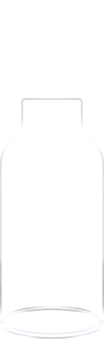
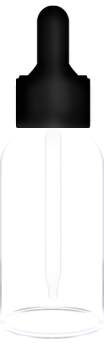
FEAT: teach 2

Changed region(s): [[0.1442, 0.0, 0.8942, 0.379]]

diff --git a/web/src/components/CreateLabs.tsx b/web/src/components/CreateLabs.tsx
@@ -1,27 +1,82 @@
 import React, { useState, useEffect } from 'react';
-import { createLab, getSubstances } from '../axios'; // Import the necessary functions
+import { createLab, getSubstances } from '../axios'; // Import necessary functions
 import { LabWithSubs } from '../types';
-import './CreateLabs.css'; // Import the CSS for styling
+import flaskImg from '../assets/flask.png';
+import bottleImg from '../assets/bottle.png';
+import './CreateLabs.css'; // Import CSS for styling
+import flaskBTBImg from '../assets/Flask-BTB.png';
+import flaskBTBH2OImg from '../assets/Flask-BTB+H2O.png';
+import flaskBTBHCLImg from '../assets/Flask-BTB+HCL.png';
+import flaskBTBNH3Img from '../assets/Flask-BTB+NH3.png';
+import flaskMethylOrangeImg from '../assets/Flask-Methyl_orange.png';
+import flaskMethylOrangeH2OImg from '../assets/Flask-Methyl_orange+H2O.png';
+import flaskMethylOrangeHCLImg from '../assets/Flask-Methyl_orange+HCL.png';
+import flaskMethylOrangeNH3Img from '../assets/Flask-Methyl_orange+NH3.png';
+import flaskPhenolphthaleinImg from '../assets/Flask-Phenolphthalein.png';
+import flaskPhenolphthaleinH2OImg from '../assets/Flask-Phenolphthalein+H2O.png';
+import flaskPhenolphthaleinHCLImg from '../assets/Flask-Phenolphthalein+HCL.png';
+import flaskPhenolphthaleinNH3Img from '../assets/Flask-Phenolphthalein+NH3.png';
+import h2oImg from '../assets/H2O.png';
+import hclImg from '../assets/HCL.png';
+import nh3Img from '../assets/NH3.png';
+
+// Hardcoded dictionary mapping substances to images
+const substanceImages: { [key: string]: string } = {
+  'BTB': flaskBTBImg,
+  'BTB+물': flaskBTBH2OImg,
+  'BTB+염산': flaskBTBHCLImg,
+  'BTB+암모니아': flaskBTBNH3Img,
+  '메틸 오렌지': flaskMethylOrangeImg,
+  '메틸 오렌지+물': flaskMethylOrangeH2OImg,
+  '메틸 오렌지+염산': flaskMethylOrangeHCLImg,
+  '메틸 오렌지+암모니아': flaskMethylOrangeNH3Img,
+  '페놀프탈레인': flaskPhenolphthaleinImg,
+  '페놀프탈레인+물': flaskPhenolphthaleinH2OImg,
+  '페놀프탈레인+염산': flaskPhenolphthaleinHCLImg,
+  '페놀프탈레인+암모니아': flaskPhenolphthaleinNH3Img,
+  '물': h2oImg,
+  '염산': hclImg,
+  '암모니아': nh3Img,
+  // 추가 용액들 필요시 추가
+};
 
 interface Substance {
   substance_id: number;
   substance_name: string;
+  x: number;
+  y: number;
+  case_type: string;
+  image: string; // To track which image is currently being displayed
 }
 
 const CreateLab = () => {
   const [labName, setLabName] = useState(''); // Lab name
   const [goal, setGoal] = useState('');       // Lab goal
-  const [substances, setSubstances] = useState<Substance[]>([]); // Substances (for selected items)
-  const [materials, setMaterials] = useState<Substance[]>([]); // Materials fetched from backend
+  const [substances, setSubstances] = useState<Substance[]>([]); // Substances
+  const [materials, setMaterials] = useState<string[]>([]); // Materials fetched from backend
   const [showModal, setShowModal] = useState(true); // Modal state
   const [sidebarOpen, setSidebarOpen] = useState(false); // Sidebar state
   const [activeTab, setActiveTab] = useState('Tools'); // Active tab in sidebar
+  const [selectedToolId, setSelectedToolId] = useState<number | null>(null); // Track selected tool
 
   const availableTools = ['플라스크', '시약병']; // Fixed tools
 
   // Function to drop tools or materials
-  const handleDrop = (item: string) => {
-    setSubstances([...substances, { substance_id: substances.length + 1, substance_name: item }]);
+  const handleDrop = (item: string, itemType: string) => {
+    const imageWidth = 150;  // Fixed image width
+    const imageHeight = 150; // Fixed image height
+
+    const newX = (window.innerWidth / 2) - (imageWidth / 2) - 0.9 * (window.innerWidth / 2) ; // Center the image horizontally
+    const newY = (window.innerHeight / 2) - (imageHeight / 2); // Center the image vertically
+
+    setSubstances([...substances, {
+      substance_id: substances.length + 1,
+      substance_name: item,
+      x: newX,
+      y: newY,
+      case_type: itemType,
+      image: itemType === 'flask' ? flaskImg : bottleImg, // Initial image for tool
+    }]);
   };
 
   const handleCreateLab = () => {
@@ -44,9 +99,9 @@ const CreateLab = () => {
   // Fetch materials from backend
   useEffect(() => {
     if (activeTab === 'Materials') {
-      getSubstances() // Use the imported getSubstances function
+      getSubstances()
         .then(response => {
-          setMaterials(response.data); // Assume response.data contains an array of substances
+          setMaterials(response.data.map((material: { substance_name: string }) => material.substance_name)); // Just get names
         })
         .catch(error => {
           console.error('Error fetching materials:', error);
@@ -54,15 +109,39 @@ const CreateLab = () => {
     }
   }, [activeTab]); // Only fetch when switching to Materials tab
 
-  // Function to update the page title when lab name changes
-  useEffect(() => {
-    if (labName) {
-      document.title = labName; // Change the page title to the lab name
+  // Function to select or deselect a tool
+  const handleToolSelect = (id: number) => {
+    if (selectedToolId === id) {
+      setSelectedToolId(null); // Deselect if the tool is already selected
+    } else {
+      setSelectedToolId(id); // Select the tool
     }
-  }, [labName]);
+  };
+
+  // Function to assign substance to selected tool
+  const handleAssignSubstance = (substanceName: string) => {
+    if (selectedToolId !== null) {
+      const updatedSubstances = substances.map(substance => {
+        if (substance.substance_id === selectedToolId) {
+          // If the selected tool matches, replace the image with the substance image
+          return {
+            ...substance,
+            image: substanceImages[substanceName] || substance.image, // Replace image if available
+          };
+        }
+        return substance;
+      });
+      setSubstances(updatedSubstances); // Update the substances array
+    }
+  };
 
   return (
-    <div>
+    <div className="create-lab-container">
+      {/* Title at the top */}
+      {!showModal && (
+        <h1 className="lab-title">{labName}</h1>
+      )}
+
       {/* Sidebar */}
       <div className={`sidebar ${sidebarOpen ? 'open' : ''}`}>
         <div className="sidebar-header">
@@ -93,7 +172,7 @@ const CreateLab = () => {
               {availableTools.map((tool, index) => (
                 <div
                   key={index}
-                  onClick={() => handleDrop(tool)}
+                  onClick={() => handleDrop(tool, tool === '플라스크' ? 'flask' : 'bottle')}
                   style={{
                     cursor: 'pointer',
                     padding: '5px',
@@ -112,15 +191,15 @@ const CreateLab = () => {
               ) : (
                 materials.map(material => (
                   <div
-                    key={material.substance_id} // Use substance_id as a unique key
-                    onClick={() => handleDrop(material.substance_name)}
+                    key={material}
+                    onClick={() => handleAssignSubstance(material)}
                     style={{
                       cursor: 'pointer',
                       padding: '5px',
                       backgroundColor: '#ddd',
                       marginBottom: '10px'
                     }}>
-                    {material.substance_name}
+                    {material}
                   </div>
                 ))
               )}
@@ -129,12 +208,41 @@ const CreateLab = () => {
         </div>
       </div>
 
-      {/* Button outside the sidebar to toggle */}
+      {/* Button to toggle sidebar */}
       <button className={`sidebar-toggle ${sidebarOpen ? 'open' : ''}`} onClick={() => setSidebarOpen(!sidebarOpen)}>
         &#9776;
       </button>
 
-      {/* Modal to input Lab Name and Goal */}
+      {/* Render substances as draggable images */}
+      {substances.map((substance, index) => (
+        <img
+          key={substance.substance_id}
+          src={substance.image}
+          alt={substance.substance_name}
+          style={{
+            position: 'absolute',
+            left: `${substance.x}px`,
+            top: `${substance.y}px`,
+            cursor: 'move',
+            border: substance.substance_id === selectedToolId ? '3px solid red' : 'none', // Add or remove border if selected
+            width: 'auto', // Fixed size to ensure it remains consistent
+            height: '300px',
+          }}
+          draggable
+          onClick={() => handleToolSelect(substance.substance_id)} // Handle tool selection and deselection
+          onDragEnd={(e) => {
+            const updatedSubstances = [...substances];
+            updatedSubstances[index] = {
+              ...updatedSubstances[index],
+              x: e.clientX - (window.innerWidth / 2) , // Adjust position to center on cursor (based on fixed width)
+              y: e.clientY - 0.15 * (window.innerWidth / 2) , // Adjust position to center on cursor (based on fixed height)
+            };
+            setSubstances(updatedSubstances); // Update coordinates after dragging
+          }}
+        />
+      ))}
+
+      {/* Modal for lab setup */}
       {showModal && (
         <div className="modal">
           <div className="modal-content">
@@ -166,21 +274,9 @@ const CreateLab = () => {
       {/* Page content after modal is dismissed */}
       {!showModal && (
         <>
-          <h1>{labName}</h1>
-          <div>
-            <label>Goal: </label>
-            <p>{goal}</p>
+          <div className="bottom-button-container">
+            <button className="create-lab-button" onClick={handleCreateLab}>Create Lab</button>
           </div>
-
-          <div style={{ marginTop: '20px' }}>
-            <h2>Available Substances</h2>
-            {substances.map((substance, index) => (
-              <div key={index}>
-                <p>{substance.substance_name}</p>
-              </div>
-            ))}
-          </div>
-          <button onClick={handleCreateLab}>Create Lab</button>
         </>
       )}
     </div>

diff --git a/web/src/components/CreateLabs.css b/web/src/components/CreateLabs.css
@@ -1,3 +1,33 @@
+.create-lab-container {
+    position: relative;
+    min-height: 100vh;
+  }
+  
+  .lab-title {
+    text-align: center;
+    margin-top: 20px;
+  }
+  
+  .bottom-button-container {
+    position: fixed;
+    bottom: 20px;
+    left: 50%;
+    transform: translateX(-50%);
+  }
+  
+  .create-lab-button {
+    padding: 10px 20px;
+    background-color: #0066cc;
+    color: white;
+    border: none;
+    cursor: pointer;
+    border-radius: 5px;
+  }
+  
+  .create-lab-button:hover {
+    background-color: #004a99;
+  }
+
 /* Sidebar styling */
 .sidebar {
     position: fixed;
